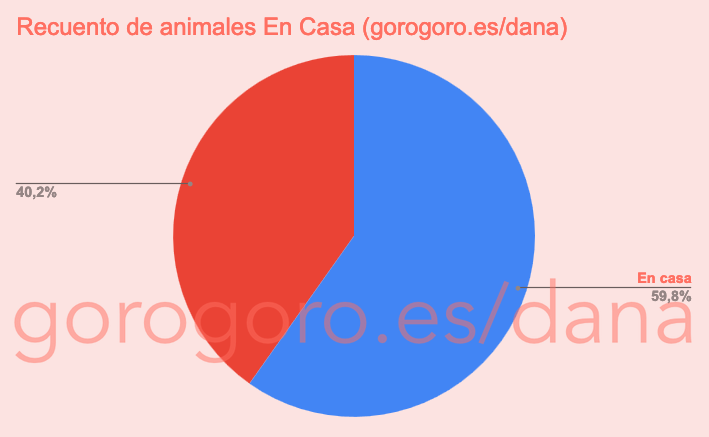
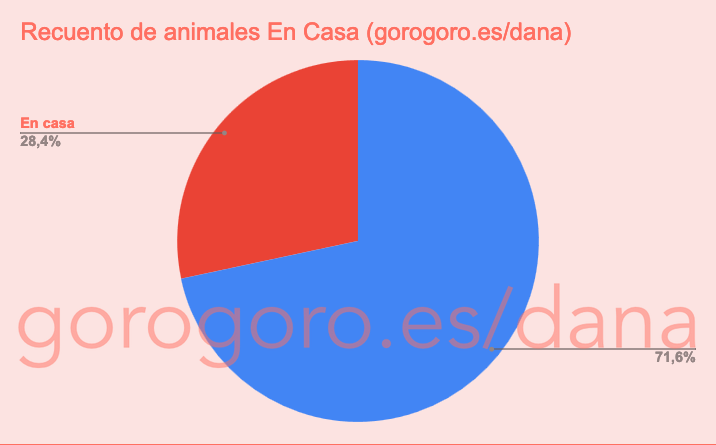
feat: Update stats

diff --git a/src/index.php b/src/index.php
@@ -270,24 +270,20 @@ sort($ubicaciones);
         </ul>
         <p>Estas poblaciones coinciden con las más afectadas por el temporal. Es una lástima que el porcentaje más grande sea “Sin especificar”, de ahí la importancia de siempre indicar el municipio de dónde viene el animal o dónde se ha encontrado, sobretodo para facilitar su encuentro.</p>
 
-        <h3>Recuento por estado</h3>
-        <img src="stats-img/estado.png" style="text-align: center" />
-        <p>Poco a poco, se incrementan los casos de animales encontrados dados de alta respecto a animales perdidos.</p>
-
         <h3>Recuento de animales en casa</h3>
         <img src="stats-img/en-casa.png" style="text-align: center" />
-        <p>Más de la mitad de los animales dados de alta han vuelto a casa con sus familias o han encontrado un nuevo hogar 🤗</p>
+        <p>Cerca del 30% de los animales dados de alta han vuelto a casa con sus familias o han encontrado un nuevo hogar 🤗</p>
 
         <h3>Recuento de animales fallecidos</h3>
         <img src="stats-img/fallecidos.png" style="text-align: center" />
-        <p>El 20% de los animales dados de alta han sido encontrados fallecidos.</p>
+        <p>El 6% de los animales dados de alta han sido encontrados fallecidos.</p>
 
         <h3>Recuento de animales que buscan nueva familia</h3>
         <img src="stats-img/buscan-familia.png" style="text-align: center" />
-        <p>Casi un 11% de los animales dados de alta ha necesitado buscar un nuevo hogar. Ya sea porque sus familias afectadas por la DANA y habiéndolo perdido todo, no podían hacerse cargo o bien porque hayan sido rechazados.</p>
+        <p>Un 7% de los animales dados de alta han necesitado buscar un nuevo hogar. Ya sea porque sus familias afectadas por la DANA y habiéndolo perdido todo, no podían hacerse cargo o bien porque hayan sido rechazados.</p>
 
         <h3>Conclusiones</h3>
-        <p>Podemos concluir que por suerte, un alto porcentaje de animales ha sido encontrado y ha podido volver con sus familias. El porcentaje de víctimas ha sido menor del que todos imaginábamos, teniendo en cuenta, la magnitud de esta tragedia.</p>
+        <p>Podemos concluir que un porcentaje medio de animales ha sido encontrado y ha podido volver con sus familias o encontrar un nuevo hogar. El porcentaje de víctimas ha sido menor del que todos imaginábamos, teniendo en cuenta, la magnitud de esta tragedia.</p>
         <p>Nos gustaría recordar la importancia del chip, en la mayoría de casos, sobretodo en gatos, los animales no llevaban chip de identificación, obligatorio por ley. El chip agiliza la búsqueda y el reencuentro del animal con su familia si los datos están actualizados.</p>
         <p>Desde aquí agradecer de nuevo a todas las personas que usáis nuestra plataforma y a l@s voluntari@s que nos ayudáis a mantener los casos al día. Esperamos que más tarde o más temprano, todos los animales afectados se reúnan con sus familias 🖤</p>
     </details>
